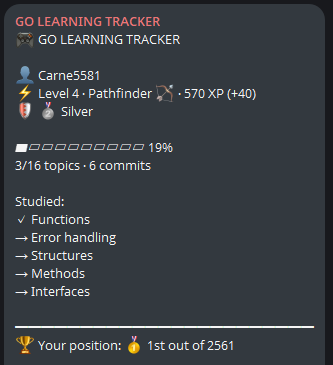
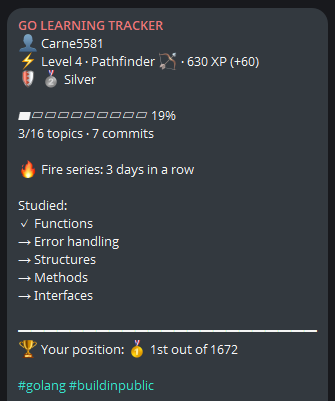
Day 8

Changed region(s): [[0.0, 0.0, 0.961, 1.0]]

diff --git a/basics/structs.go b/basics/structs.go
@@ -1,0 +1,71 @@
+package main
+
+import "fmt"
+
+// 1. ОПРЕДЕЛЕНИЕ СТРУКТУРЫ (ЧЕРТЕЖ)
+// Мы создаем новый тип данных "Hero"
+// Обрати внимание: Имена полей с Большой буквы (чтобы их видели другие пакеты)
+type Hero struct {
+	Nickname string
+	Level    int
+	Health   int
+	IsAlive  bool
+	Weapon   string
+}
+
+func main() {
+	fmt.Println("=== RPG GAME SYSTEM v1.0 ===")
+
+	// 2. СОЗДАНИЕ ОБЪЕКТА (Инстанс)
+	// Мы строим дом по чертежу
+	player := Hero{
+		Nickname: "Arthas",
+		Level:    80,
+		Health:   100,
+		IsAlive:  true,
+		Weapon:   "Frostmourne",
+	}
+
+	fmt.Printf("Герой создан: %+v\n", player)
+	// %+v - спец. формат, показывает имена полей (очень удобно для отладки!)
+
+	// 3. ДОСТУП К ПОЛЯМ (Через точку)
+	fmt.Println("\n--- ИНФО О ГЕРОЕ ---")
+	fmt.Println("Имя:", player.Nickname)
+	fmt.Println("HP:", player.Health)
+
+	// 4. ИЗМЕНЕНИЕ ПОЛЕЙ
+	fmt.Println("\n--- БИТВА НАЧАЛАСЬ! ---")
+	fmt.Println("Герой получает удар на 40 урона!")
+
+	player.Health = player.Health - 40
+
+	fmt.Printf("Текущее здоровье: %d\n", player.Health)
+
+	// Провека на жизнь
+	if player.Health <= 0 {
+		player.IsAlive = false
+		fmt.Println("Герой пал...")
+	} else {
+		fmt.Println("Герой ранен, но жив!")
+	}
+
+	player.Weapon = "Axe"
+
+	fmt.Println("\nГерой сменил оружие на:", player.Weapon)
+
+	// 5. КОПИРОВАНИЕ СТРУКТУР (Важный момент!)
+	fmt.Println("\n--- МАГИЯ КОПИРОВАНИЯ ---")
+	// Создаем "Тень" героя
+	// В Go привание структуры = КОПИРОВАНИЕ всех полей
+	shadow := player
+
+	shadow.Nickname = "Shadow Arthas"
+	shadow.Health = 1000 // Тень сильнее
+
+	fmt.Println("Оригинал:", player.Nickname, player.Health)
+	fmt.Println("Тень: ", shadow.Nickname, shadow.Health)
+
+	// Вывод: Изменение копии (shadow) НЕ ПОВЛИЯЛО на оригинал (player).
+	// Это то самое Pass by Value, о котором мы говорили.
+}
